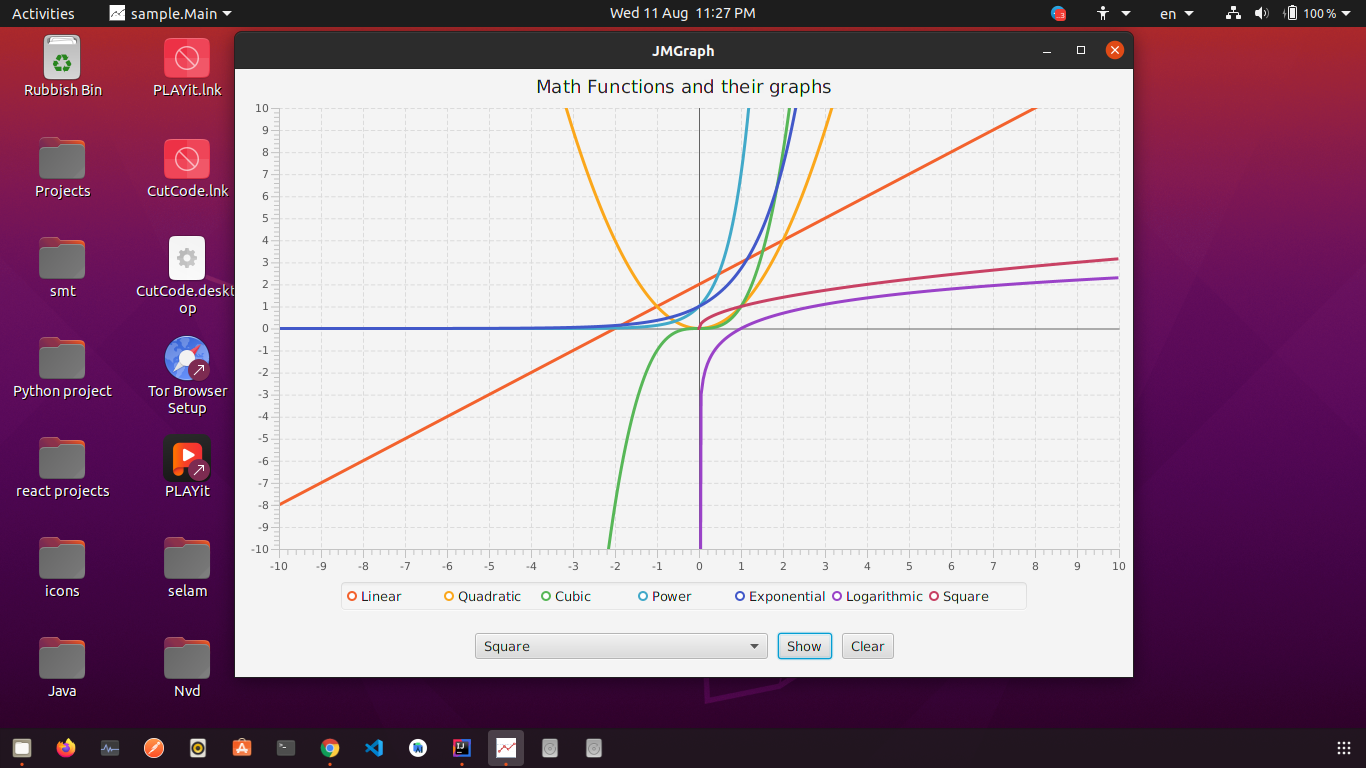
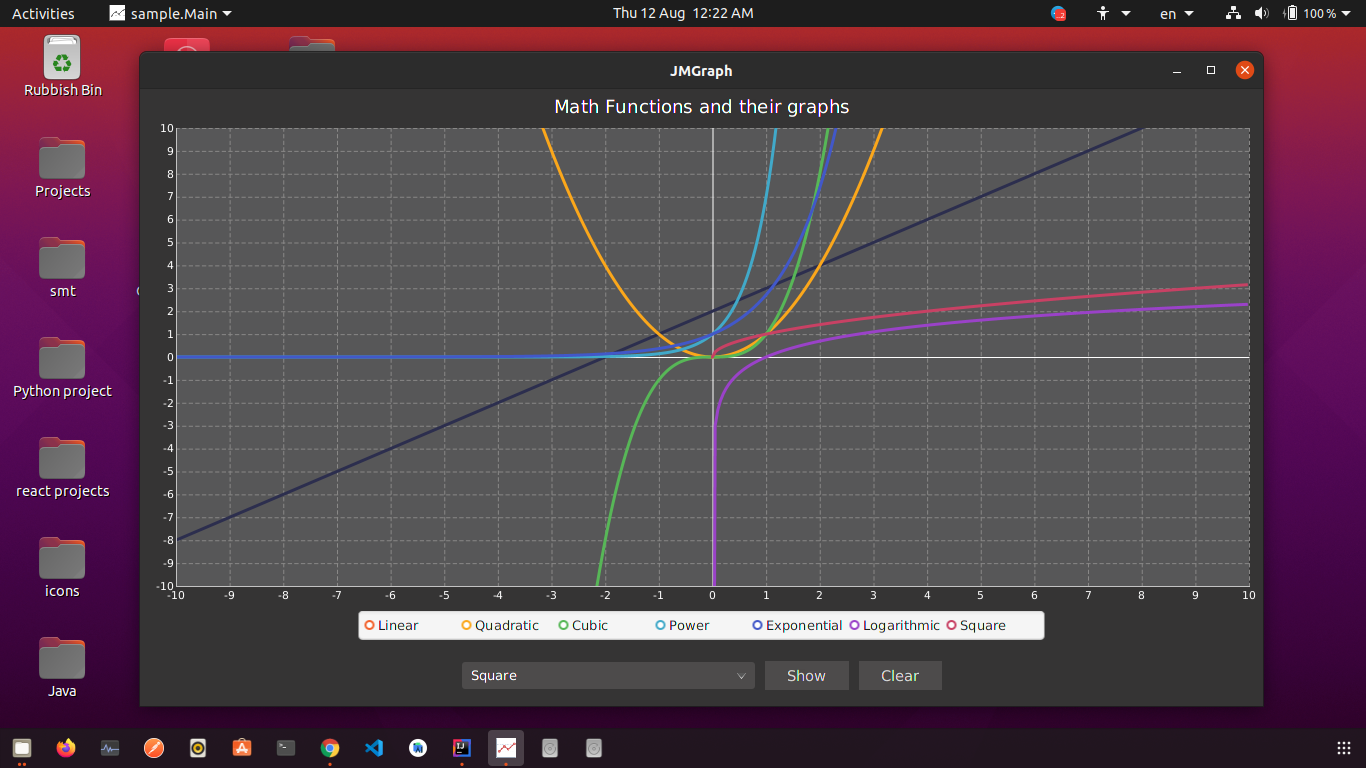
Added style.css

diff --git a/src/sample/style.css b/src/sample/style.css
@@ -12,6 +12,12 @@
     -fx-stroke: white;
 }
 
+.chart .chart-title .text {
+    -fx-fill: white;
+}
+
+
+
 .chart-plot-background {
     -fx-background-color: #575758;
     -fx-foreground-color: white;
@@ -43,6 +49,19 @@
 .background {
     -fx-background-color: #674A44;
     -fx-foreground-color: #353434;
+}
+
+.choice-box {
+    -fx-background-color: derive(#353434,20%);
+    -fx-text-fill: white;
+    -fx-focus-color: derive(#353434,20%);
+    -fx-faint-focus-color: derive(#353434,10%);
+    -fx-control-inner-background: derive(#353434,20%);
+    -fx-selection-bar: derive(#353434,10%);
+}
+
+.choice-box .label {
+     -fx-text-fill: white;
 }
 
 .button {
